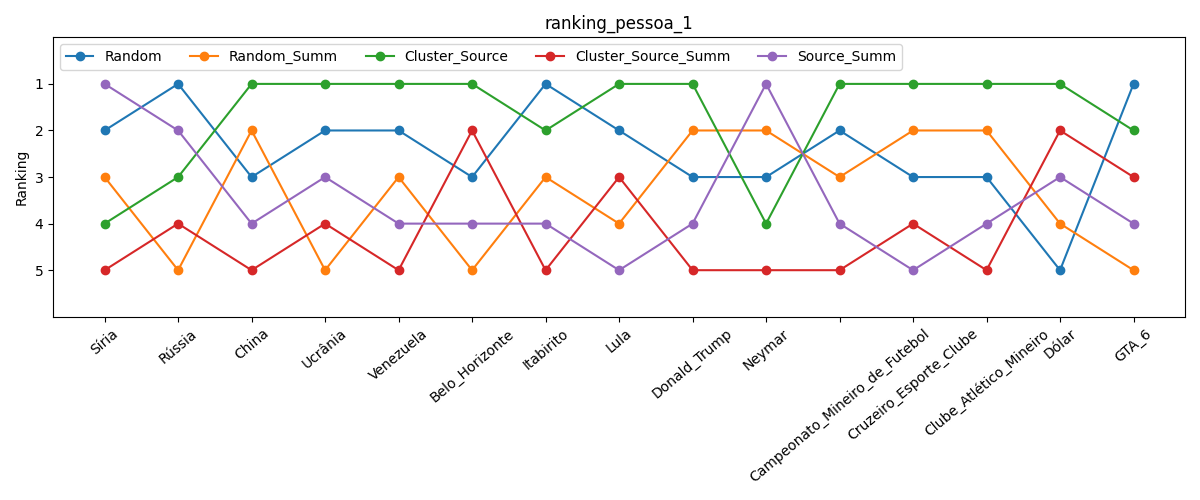
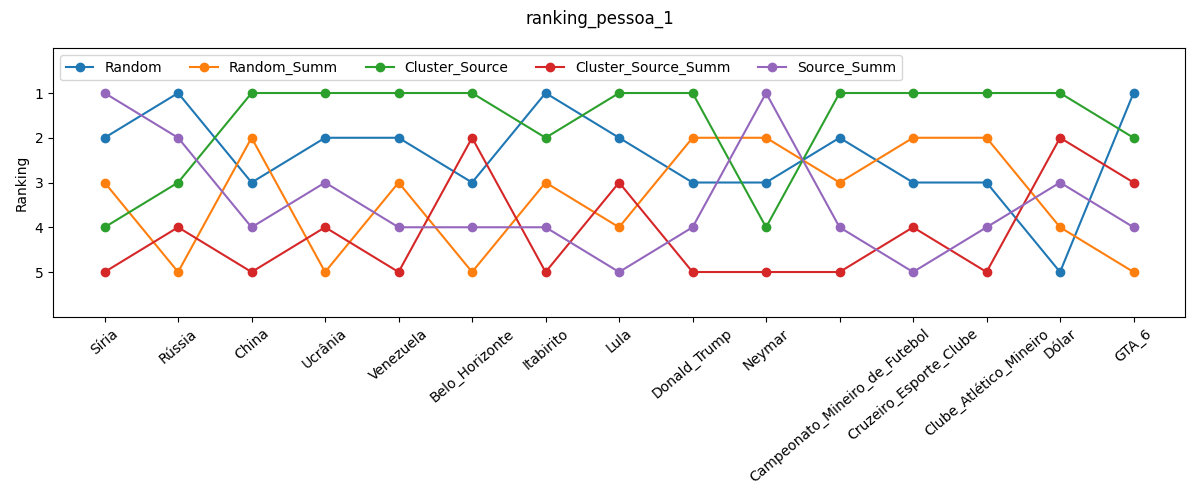
data: add better titles to plots

diff --git a/src/scripts/plot_results.py b/src/scripts/plot_results.py
@@ -44,15 +44,13 @@ def plot_each_person_results(data_dir: str, save_to_dir: str):
         plt.figure(figsize=(12, 5))
         df.T.plot(ax=plt.gca(), marker="o")
 
-        _define_plot_configs(
-            title=file.stem, df=df, xlabels=df.columns.to_list()
-        )
+        _define_plot_configs(suptitle=file.stem, xlabels=df.columns.to_list())
 
         plt.savefig(target_dir_path / f"{file.stem}.png")
         plt.close()
 
 
-def _define_plot_configs(title, df, xlabels):
+def _define_plot_configs(suptitle, xlabels):
     plt.xticks(range(len(xlabels)), xlabels, rotation=40)
     y_ticks = [0, 1, 2, 3, 4]
     plt.yticks(y_ticks, [el + 1 for el in y_ticks])
@@ -61,7 +59,7 @@ def _define_plot_configs(title, df, xlabels):
     plt.gca().invert_yaxis()
 
     plt.legend(loc="upper left", ncol=len(plt.gca().lines))
-    plt.title(title)
+    plt.suptitle(suptitle)
     plt.tight_layout()
 
 
@@ -102,8 +100,7 @@ def save_mean_rankings_plot(data_dir: str, target_plot_path: str):
     mean_rankings_df.plot(ax=plt.gca(), marker="o")
 
     _define_plot_configs(
-        title="Configs mean rankings per term",
-        df=mean_rankings_df,
+        suptitle="Configs mean rankings per term",
         xlabels=mean_rankings_df.columns.to_list(),
     )
 
@@ -112,7 +109,7 @@ def save_mean_rankings_plot(data_dir: str, target_plot_path: str):
 
 
 def highlight_mean_performance(
-    data_dir: str, target_plot_path: str, highlight: list[str]
+    data_dir: str, target_plot_path: str, highlight: list[str], title=None
 ):
     data_dir_path = pathlib.Path(data_dir)
 
@@ -142,10 +139,11 @@ def highlight_mean_performance(
         plt.plot(xrange, mean_rankings_df[col].values, marker="o", label=col)
 
     _define_plot_configs(
-        title="Configs mean rankings per term",
-        df=mean_rankings_df,
+        suptitle="Configs mean rankings per term",
         xlabels=mean_rankings_df.index.to_list(),
     )
+
+    plt.title(title, loc="left", fontsize=10)
 
     plt.savefig(target_plot_path)
     plt.close()
@@ -174,6 +172,7 @@ if __name__ == "__main__":
         rankings_data_dir,
         highlist_mean_rankings_plot_path,
         ["Cluster_Source", "Source_Summ"],
+        title="Clustering was found to be prefered over summarizing",
     )
 
     highlist_mean_rankings_plot_path = (
@@ -187,4 +186,5 @@ if __name__ == "__main__":
         rankings_data_dir,
         highlist_mean_rankings_plot_path,
         ["Cluster_Source_Summ"],
+        title="Clustering and summarizing was one of the least prefered configurations",
     )
